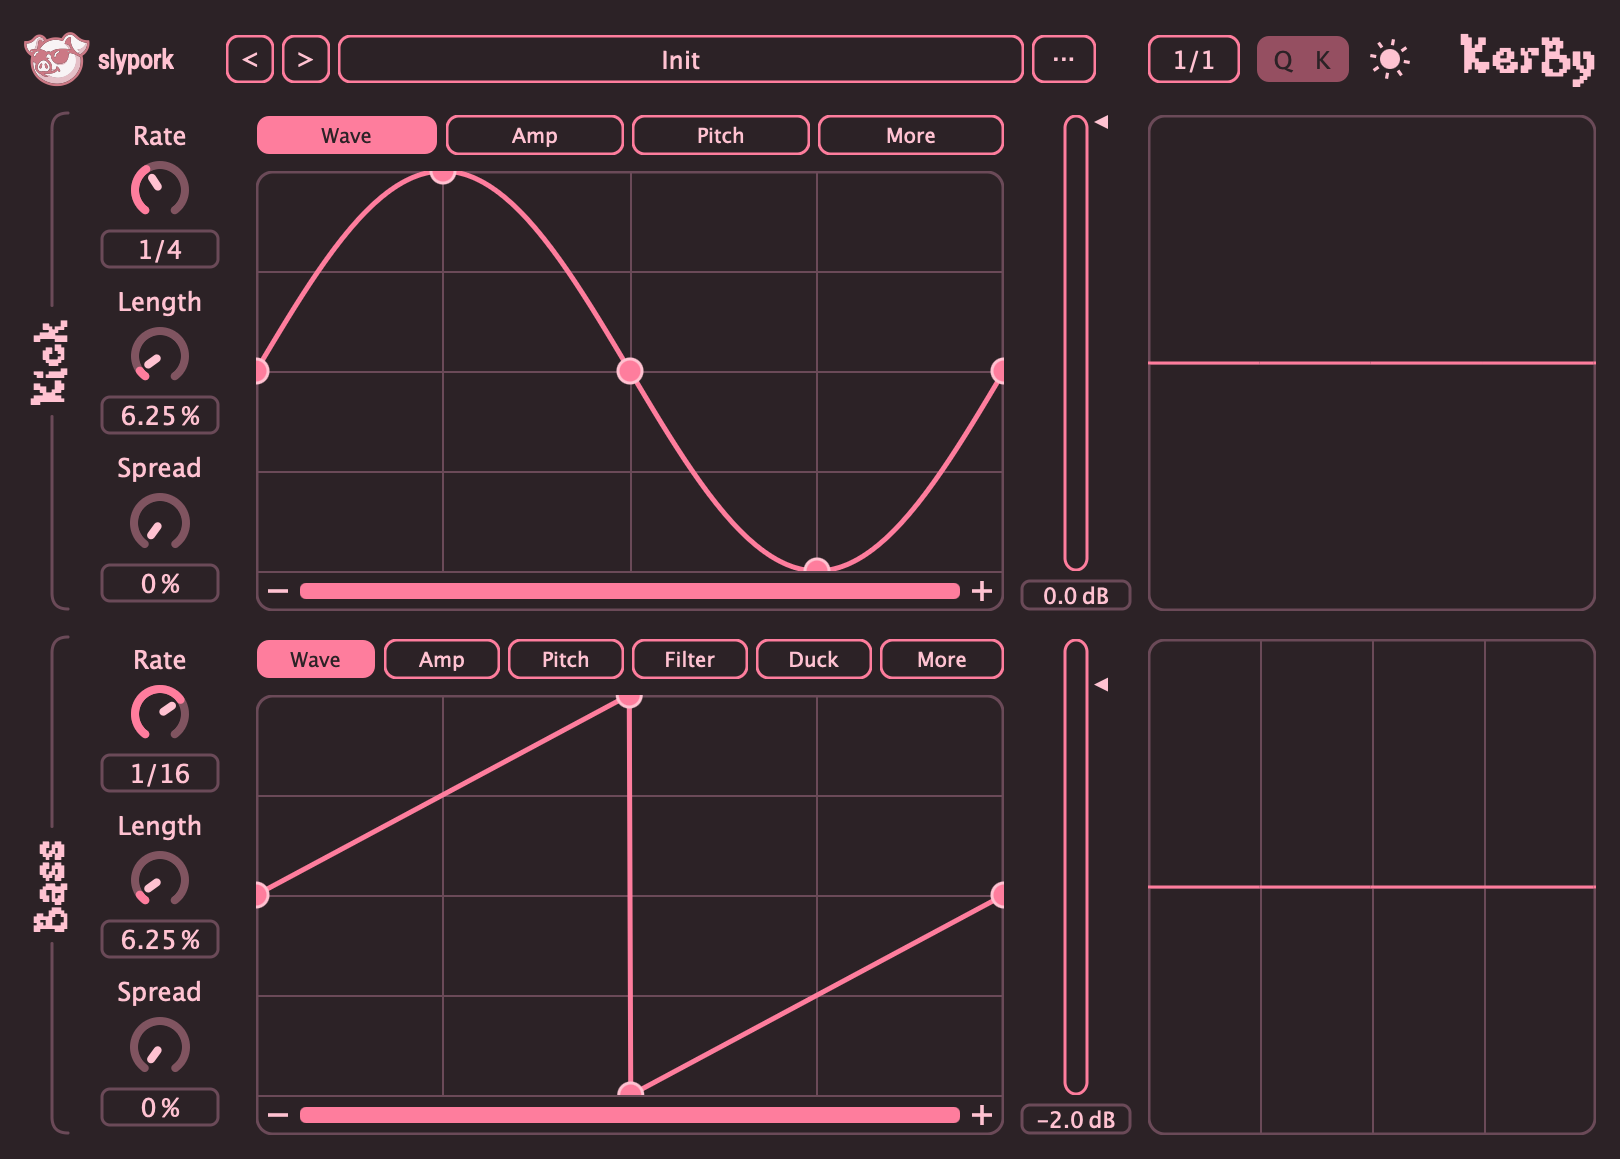
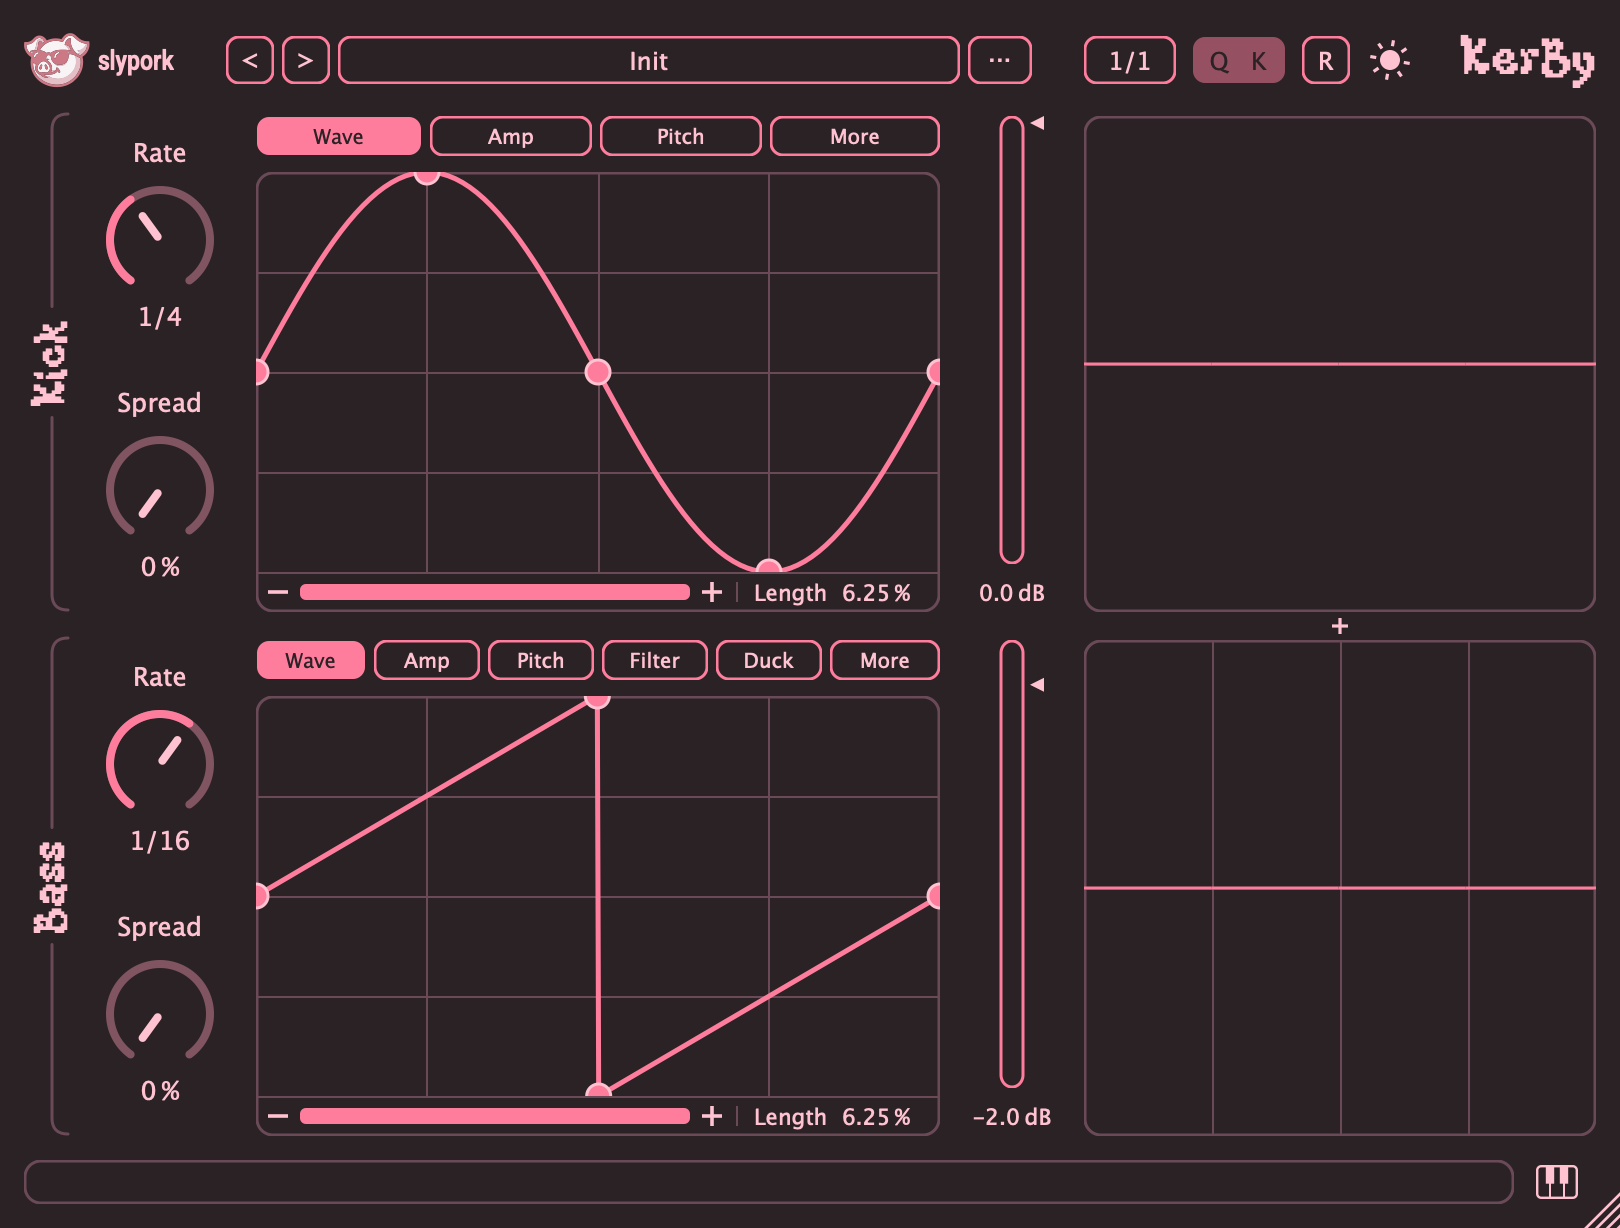
deploy: c1386e2dff9e3e02df0a61d248f4aedee252aa10

diff --git a/kerby/index.html b/kerby/index.html
@@ -6,7 +6,7 @@
     <meta name="viewport" content="width=device-width">
     <title>KerBy | Slypork</title>
     <meta name="description"
-        content="KerBy — a tempo-synced kick and bass percussion synth. Two voices, the Bass ducked by the Kick, every envelope a curve you draw. Closed beta.">
+        content="KerBy, a tempo-synced kick and bass percussion synth. Two voices, the bass ducked by the kick, every envelope a curve you draw. Closed beta.">
     <link rel="icon" href="../assets/images/slypork_logo.svg" type="image/svg+xml">
     <link rel="icon" type="image/png" sizes="32x32" href="../assets/images/favicon-32x32.png">
     <link rel="apple-touch-icon" href="../assets/images/favicon-192x192.png">
@@ -81,14 +81,14 @@
                 <div class="visual-container" id="visualContainer">
                     <div class="mx-2 md:mx-4 my-4 md:my-8">
                         <p class="text-lg font-light">
-                            KerBy is a one-stop shop for kick and bass generation I've been building. Two voices, with
-                            an opinion about how they relate: the Kick is the backbone, the Bass gets ducked out of its
+                            KerBy is a one-stop shop for kick and bass synthesis I've been building. Two voices, with
+                            an opinion about how they relate: the kick is the backbone, the bass gets ducked out of its
                             way, and neither ends up off the grid unless you ask it to. It's set up for kicks and
                             basslines, but can be used for much more.
                             <br><br>
-                            Every envelope in it is a curve — amp, pitch, filter, the duck, and the oscillator waveform
+                            Every envelope in it is a curve: amp, pitch, filter, the duck, and the oscillator waveform
                             itself. Start from a preset shape or draw your own. Hold a note and the clock plays the
-                            pattern for you, or feed it a rhythm and it follows — live with your hands on the knobs, or
+                            pattern for you, or feed it a rhythm and it follows, live with your hands on the knobs, or
                             as clips you launch or draw in.
                         </p>
                         <p class="mt-6">
@@ -102,11 +102,11 @@
             </article>
             <section class="visual-container-bottom" id="kerbyDetail">
                 <div class="mx-2 md:mx-4 my-4 md:my-8">
-                    <img src="../assets/images/software/KerBy_lightmode.png" width="1620" height="1160"
-                        alt="The KerBy plugin window: a Kick row above a Bass row, each with Rate, Length and Spread knobs, envelope tabs, a freeform curve editor, a level fader and a bar-synced scope."
+                    <img src="../assets/images/software/KerBy_lightmode.png" width="1620" height="1228"
+                        alt="The KerBy plugin window: a kick row above a bass row, each with Rate and Spread knobs, envelope tabs, a freeform curve editor showing its drawn waveform, a level fader and a bar-synced scope."
                         class="dark:hidden w-full rounded-xl border border-kerbyPink modal-trigger cursor-pointer">
-                    <img src="../assets/images/software/KerBy_darkmode.png" width="1620" height="1159" loading="lazy"
-                        alt="The KerBy plugin window in its dark theme: a Kick row above a Bass row, each with Rate, Length and Spread knobs, envelope tabs, a freeform curve editor, a level fader and a bar-synced scope."
+                    <img src="../assets/images/software/KerBy_darkmode.png" width="1620" height="1228" loading="lazy"
+                        alt="The KerBy plugin window in its dark theme: a kick row above a bass row, each with Rate and Spread knobs, envelope tabs, a freeform curve editor showing its drawn waveform, a level fader and a bar-synced scope."
                         class="hidden dark:block w-full rounded-xl border border-kerbyDarkAccent modal-trigger cursor-pointer">
 
                     <h2 class="text-xl pt-8">How it works:</h2>
@@ -114,9 +114,8 @@
                         <div class="pt-4 flex flex-col fig-row:flex-row fig-row:items-center gap-3 fig-row:gap-6">
                             <p class="fig-row:flex-1">
                                 <span class="text-kerbyRed dark:text-kerbyDarkText">Two voices, one clock.</span>
-                                Each runs at its own division, and the Bass restarts on every Kick pulse so the two
-                                read as one figure — switch that off and it free-runs. Clip length counts too: a dotted
-                                Kick under a one-bar clip resets each bar instead of drifting across them.
+                                Each runs at its own rate. The bass restarts
+                                on every kick pulse so the two read as one figure. Switch that off for a polyrhythm.
                             </p>
                             <svg class="kerby-fig w-full fig-row:w-72 fig-row:shrink-0" viewBox="0 0 320 150"
                                 aria-hidden="true">
@@ -162,11 +161,11 @@
                         </div>
                         <div class="pt-6 flex flex-col fig-row:flex-row fig-row:items-center gap-3 fig-row:gap-6">
                             <p class="fig-row:flex-1">
-                                <span class="text-kerbyRed dark:text-kerbyDarkText">The Bass is ducked by the
-                                    Kick.</span>
-                                The duck is a curve you draw, applied over a fixed quarter note after each Kick pulse,
-                                so
-                                it behaves the same at any Kick rate. A Duck amount takes it from off to full.
+                                <span class="text-kerbyRed dark:text-kerbyDarkText">The bass is ducked by the
+                                    kick.</span>
+                                The duck is a curve you draw, played out after each kick pulse over a note
+                                division you set.
+                                The kick's reverb rides the same curve.
                             </p>
                             <svg class="kerby-fig w-full fig-row:w-72 fig-row:shrink-0 fig-row:order-first"
                                 viewBox="0 0 320 150" aria-hidden="true">
@@ -252,6 +251,43 @@
                                 <circle cx="230" cy="75" r="6" fill="var(--kerby-strong)" />
                             </svg>
                         </div>
+                        <div class="pt-6 flex flex-col fig-row:flex-row fig-row:items-center gap-3 fig-row:gap-6">
+                            <p class="fig-row:flex-1">
+                                <span class="text-kerbyRed dark:text-kerbyDarkText">Made to be played.</span>
+                                The keyboard has a wheel at each end, one for pitch and one for tempo. Bend the
+                                tempo wheel mid-phrase for a stumble or glitch effect. <strong>R</strong> plays the
+                                output
+                                backwards, a kick period at a time.
+                            </p>
+                            <svg class="kerby-fig w-full fig-row:w-72 fig-row:shrink-0" viewBox="0 0 320 150"
+                                aria-hidden="true">
+                                <rect x="1" y="1" width="318" height="148" rx="10" fill="var(--kerby-panel)"
+                                    stroke="var(--kerby-accent)" stroke-width="1" />
+                                <!-- the host's grid -->
+                                <g stroke="var(--kerby-grid)" stroke-width="1">
+                                    <line x1="20" y1="20" x2="20" y2="130" />
+                                    <line x1="90" y1="20" x2="90" y2="130" />
+                                    <line x1="160" y1="20" x2="160" y2="130" />
+                                    <line x1="230" y1="20" x2="230" y2="130" />
+                                    <line x1="300" y1="20" x2="300" y2="130" />
+                                </g>
+                                <!-- on the grid, and then bent off it as the wheel goes down -->
+                                <g fill="var(--kerby-accent)">
+                                    <rect x="18" y="30" width="4" height="32" rx="2" />
+                                    <rect x="88" y="30" width="4" height="32" rx="2" />
+                                    <rect x="158" y="30" width="4" height="32" rx="2" />
+                                    <rect x="228" y="30" width="4" height="32" rx="2" />
+                                    <rect x="298" y="30" width="4" height="32" rx="2" />
+                                </g>
+                                <g fill="var(--kerby-strong)">
+                                    <rect x="18" y="88" width="4" height="32" rx="2" />
+                                    <rect x="74" y="88" width="4" height="32" rx="2" />
+                                    <rect x="138" y="88" width="4" height="32" rx="2" />
+                                    <rect x="210" y="88" width="4" height="32" rx="2" />
+                                    <rect x="298" y="88" width="4" height="32" rx="2" />
+                                </g>
+                            </svg>
+                        </div>
                     </div>
 
                     <h2 class="text-xl pt-8">Where it's at:</h2>
@@ -262,7 +298,7 @@
                         <br>
                         - Built with JUCE, in C++
                         <br>
-                        - Not for sale — pricing isn't decided
+                        - Not for sale, pricing isn't decided
                     </p>
 
                     <h2 class="text-xl pt-8">What's new:</h2>
@@ -284,56 +320,82 @@
                          never the attribute. -->
                     <!-- data-kerby-changelog:start -->
                     <div class="text-lg font-light">
-                        <h3 class="text-lg pt-4"><span class="text-kerbyRed dark:text-kerbyDarkText">v0.3.0</span><span class="text-base opacity-75"> &middot; 2026-08-18</span></h3>
+                        <h3 class="text-lg pt-4"><span class="text-kerbyRed dark:text-kerbyDarkText">v0.3.0</span><span
+                                class="text-base opacity-75"> &middot; 2026-08-18</span></h3>
                         <h4 class="text-base pt-3 opacity-75">Added</h4>
                         <ul class="list-disc pl-5 pt-1 space-y-2">
-                            <li><strong>A tempo wheel</strong>, at the right-hand end of the keyboard. Right-click for range.</li>
-                            <li><strong>Reverb on the Kick</strong> — Amt, LP and Size on its More tab, ducked by the Bass's Sidechain curve.</li>
-                            <li><strong>Reverse</strong>, the new <strong>R</strong> in the header. It records one Kick rate period and plays it back reversed.</li>
-                            <li><strong>MIDI output — one short note per Kick pulse</strong>, for sidechaining anything to the Kick. In Live this is VST3 only; other DAWs untested.</li>
-                            <li><strong>A combined scope.</strong> The <strong>+</strong> between the two scopes merges them into one panel showing the summed output.</li>
-                            <li><strong>The pitch and tempo wheels can be automated or mapped to hardware.</strong> Map both to one macro for a tape stop.</li>
+                            <li><strong>A tempo wheel</strong>, at the right-hand end of the keyboard. Right-click for
+                                range.</li>
+                            <li><strong>Reverb on the Kick</strong> — Amt, LP and Size on its More tab, ducked by the
+                                Bass's Sidechain curve.</li>
+                            <li><strong>Reverse</strong>, the new <strong>R</strong> in the header. It records one Kick
+                                rate period and plays it back reversed.</li>
+                            <li><strong>MIDI output — one short note per Kick pulse</strong>, for sidechaining anything
+                                to the Kick. In Live this is VST3 only; other DAWs untested.</li>
+                            <li><strong>A combined scope.</strong> The <strong>+</strong> between the two scopes merges
+                                them into one panel showing the summed output.</li>
+                            <li><strong>The pitch and tempo wheels can be automated or mapped to hardware.</strong> Map
+                                both to one macro for a tape stop.</li>
                         </ul>
                         <h4 class="text-base pt-3 opacity-75">Changed</h4>
                         <ul class="list-disc pl-5 pt-1 space-y-2">
-                            <li><strong>The scope gridlines sit on real pulses</strong>, which fixes dotted rates and unquantized notes. With Restart on Kick on, the Bass's lines start again on each Kick pulse, so you can see what it's doing.</li>
-                            <li><strong>The Wave tab dims the part of the cycle a pulse never reaches</strong> — a low note under a fast Rate doesn't get all the way round the drawn waveform.</li>
-                            <li><strong>Muting the Bass no longer greys out its Duck tab</strong> while that curve is still shaping the Kick's reverb.</li>
+                            <li><strong>The scope gridlines sit on real pulses</strong>, which fixes dotted rates and
+                                unquantized notes. With Restart on Kick on, the Bass's lines start again on each Kick
+                                pulse, so you can see what it's doing.</li>
+                            <li><strong>The Wave tab dims the part of the cycle a pulse never reaches</strong> — a low
+                                note under a fast Rate doesn't get all the way round the drawn waveform.</li>
+                            <li><strong>Muting the Bass no longer greys out its Duck tab</strong> while that curve is
+                                still shaping the Kick's reverb.</li>
                             <li><strong>A level meter's clipping cap grows with the overshoot.</strong></li>
-                            <li><strong>The logo button lists every shortcut and mouse gesture in the plugin.</strong></li>
+                            <li><strong>The logo button lists every shortcut and mouse gesture in the plugin.</strong>
+                            </li>
                             <li><strong>The scope grows with the window.</strong></li>
                         </ul>
                         <h4 class="text-base pt-3 opacity-75">Fixed</h4>
                         <ul class="list-disc pl-5 pt-1 space-y-2">
-                            <li><strong>Hovering an envelope point takes the same colour as hovering a line.</strong></li>
+                            <li><strong>Hovering an envelope point takes the same colour as hovering a line.</strong>
+                            </li>
                         </ul>
                         <details class="pt-6">
                             <summary class="text-base font-light cursor-pointer">Earlier versions</summary>
-                            <h3 class="text-lg pt-4"><span class="text-kerbyRed dark:text-kerbyDarkText">v0.2.1</span><span class="text-base opacity-75"> &middot; 2026-08-13</span></h3>
+                            <h3 class="text-lg pt-4"><span
+                                    class="text-kerbyRed dark:text-kerbyDarkText">v0.2.1</span><span
+                                    class="text-base opacity-75"> &middot; 2026-08-13</span></h3>
                             <h4 class="text-base pt-3 opacity-75">Added</h4>
                             <ul class="list-disc pl-5 pt-1 space-y-2">
-                                <li><strong>Free-running rate.</strong> Each voice's Rate can run in Hz instead of a note division — right-click the Rate knob to switch.</li>
+                                <li><strong>Free-running rate.</strong> Each voice's Rate can run in Hz instead of a
+                                    note division — right-click the Rate knob to switch.</li>
                             </ul>
-                            <h3 class="text-lg pt-4"><span class="text-kerbyRed dark:text-kerbyDarkText">v0.2.0</span><span class="text-base opacity-75"> &middot; 2026-08-13</span></h3>
+                            <h3 class="text-lg pt-4"><span
+                                    class="text-kerbyRed dark:text-kerbyDarkText">v0.2.0</span><span
+                                    class="text-base opacity-75"> &middot; 2026-08-13</span></h3>
                             <h4 class="text-base pt-3 opacity-75">Added</h4>
                             <ul class="list-disc pl-5 pt-1 space-y-2">
-                                <li><strong>An on-screen keyboard, with a pitch wheel.</strong> Pitch bend from the host or a hardware wheel works now too.</li>
+                                <li><strong>An on-screen keyboard, with a pitch wheel.</strong> Pitch bend from the host
+                                    or a hardware wheel works now too.</li>
                                 <li><strong>A bottom bar, and a tooltip on every control.</strong></li>
-                                <li><strong>Bend, on the Bass</strong> — a continuous pitch offset, on its More tab.</li>
-                                <li><strong>Interface scale</strong>, 75–200%. Right-click the background or the resize corner.</li>
+                                <li><strong>Bend, on the Bass</strong> — a continuous pitch offset, on its More tab.
+                                </li>
+                                <li><strong>Interface scale</strong>, 75–200%. Right-click the background or the resize
+                                    corner.</li>
                             </ul>
                             <h4 class="text-base pt-3 opacity-75">Changed</h4>
                             <ul class="list-disc pl-5 pt-1 space-y-2">
-                                <li><strong>Dragging the window bigger grows the shape editor</strong>, rather than magnifying everything. Double-click the resize corner to reset it.</li>
-                                <li><strong>Value boxes are typeable and draggable.</strong> Hold Cmd to fine-adjust, double-click to reset.</li>
-                                <li><strong>Length moved</strong> out of the knob column onto the shape editor's control strip.</li>
+                                <li><strong>Dragging the window bigger grows the shape editor</strong>, rather than
+                                    magnifying everything. Double-click the resize corner to reset it.</li>
+                                <li><strong>Value boxes are typeable and draggable.</strong> Hold Cmd to fine-adjust,
+                                    double-click to reset.</li>
+                                <li><strong>Length moved</strong> out of the knob column onto the shape editor's control
+                                    strip.</li>
                                 <li><strong>Dragging a knob hides and pins the cursor.</strong></li>
                             </ul>
                             <h4 class="text-base pt-3 opacity-75">Fixed</h4>
                             <ul class="list-disc pl-5 pt-1 space-y-2">
                                 <li><strong>Resonance self-oscillated slightly off-pitch.</strong></li>
                             </ul>
-                            <h3 class="text-lg pt-4"><span class="text-kerbyRed dark:text-kerbyDarkText">v0.1.x</span><span class="text-base opacity-75"> &middot; August 2026</span></h3>
+                            <h3 class="text-lg pt-4"><span
+                                    class="text-kerbyRed dark:text-kerbyDarkText">v0.1.x</span><span
+                                    class="text-base opacity-75"> &middot; August 2026</span></h3>
                             <h4 class="text-base pt-3 opacity-75">Notes</h4>
                             <ul class="list-disc pl-5 pt-1 space-y-2">
                                 <li><strong>The first tester drops</strong>, before this changelog existed.</li>
